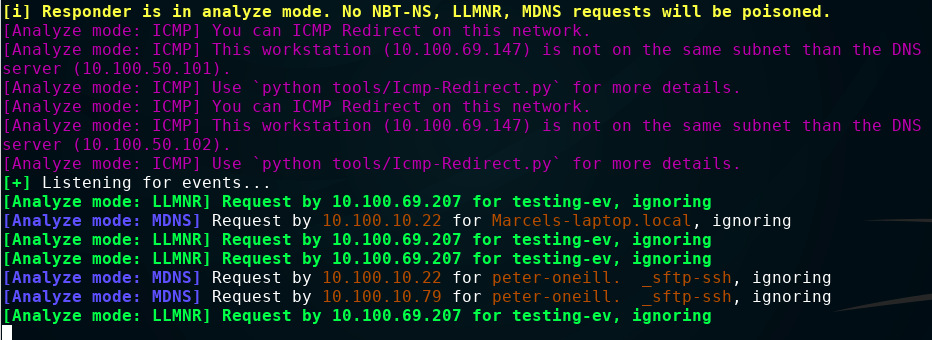
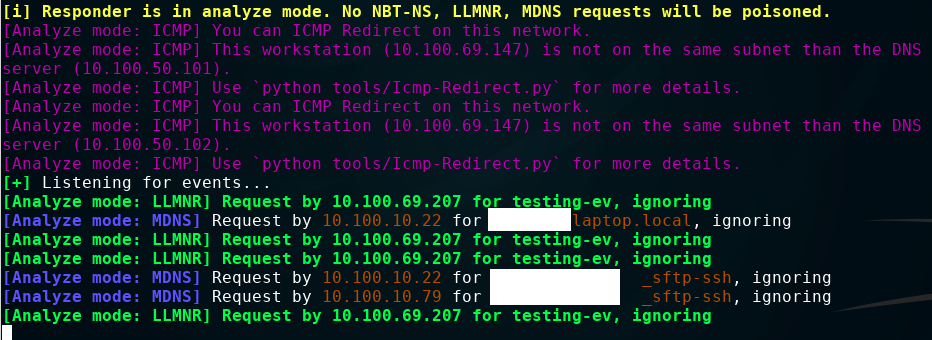
updates for web release

Changed region(s): [[0.4979, 0.7941, 0.6845, 0.9118], [0.4979, 0.5882, 0.6223, 0.6765]]

diff --git a/asker.py b/asker.py
@@ -94,7 +94,7 @@ class ThreadedServerUDP():
                                 self.previous_email_sent_time = time.time()
                                 send_alert_email(self.email, query_name, pkt, args)
                             elif (time.time() - self.previous_email_sent_time)>=600:
-                                print('Previous alert sent '+(time.time()-self.previous_email_sent_time)+' seconds ago.')
+                                print('Previous alert sent '+str(time.time()-self.previous_email_sent_time)+' seconds ago.')
                                 self.previous_email_sent_time = time.time()
                                 send_alert_email(self.email, query_name, pkt, args)
                             else:
@@ -241,7 +241,6 @@ def main():
         threads = []
         intface = None
         ThreadedServerUDP('224.0.0.252', 5355, args).listen()
-        #ThreadedServerUDP("0.0.0.0", 5355).listen()
     except KeyboardInterrupt:
         print ('Exiting...')
         sys.exit()

diff --git a/README.md b/README.md
@@ -10,6 +10,7 @@ This is intended for use by a blue team who wants to catch a red team or attacke
 **note2: if you receive errors about vboxnet not being a valid interface from ifconfig on 'import scapy.all', this is an issue with scapy that I cannot fix, and will affect any programs using scapy's 'route' module. To resolve, run "sudo ifconfig vboxnet(n) down" for any virtualbox network adapters. I've only seen this is OS X, but it should apply in Linux as well.**
 
 #### Running the script
+(I know the bait names change; I put these together over a long period of testing and I'll fix it later...)
 
 ![launch](images/launch.png)
 
